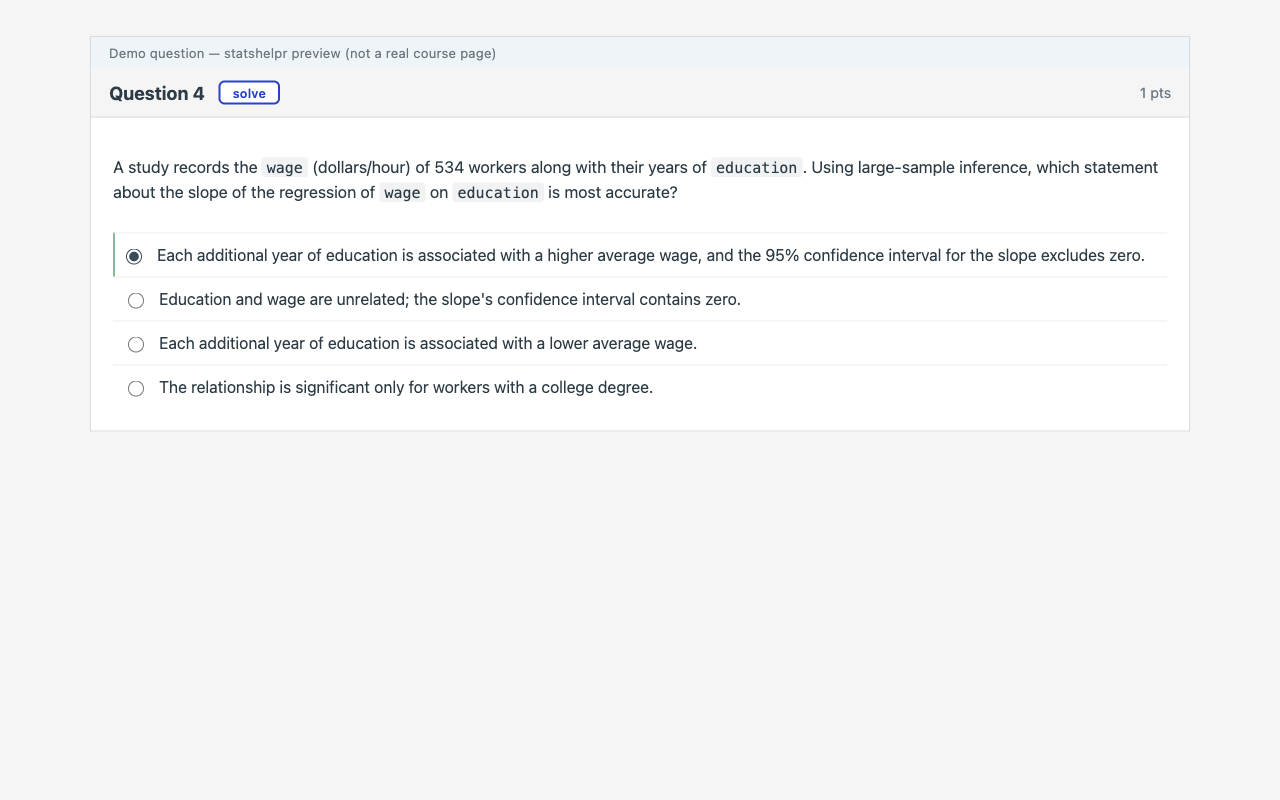
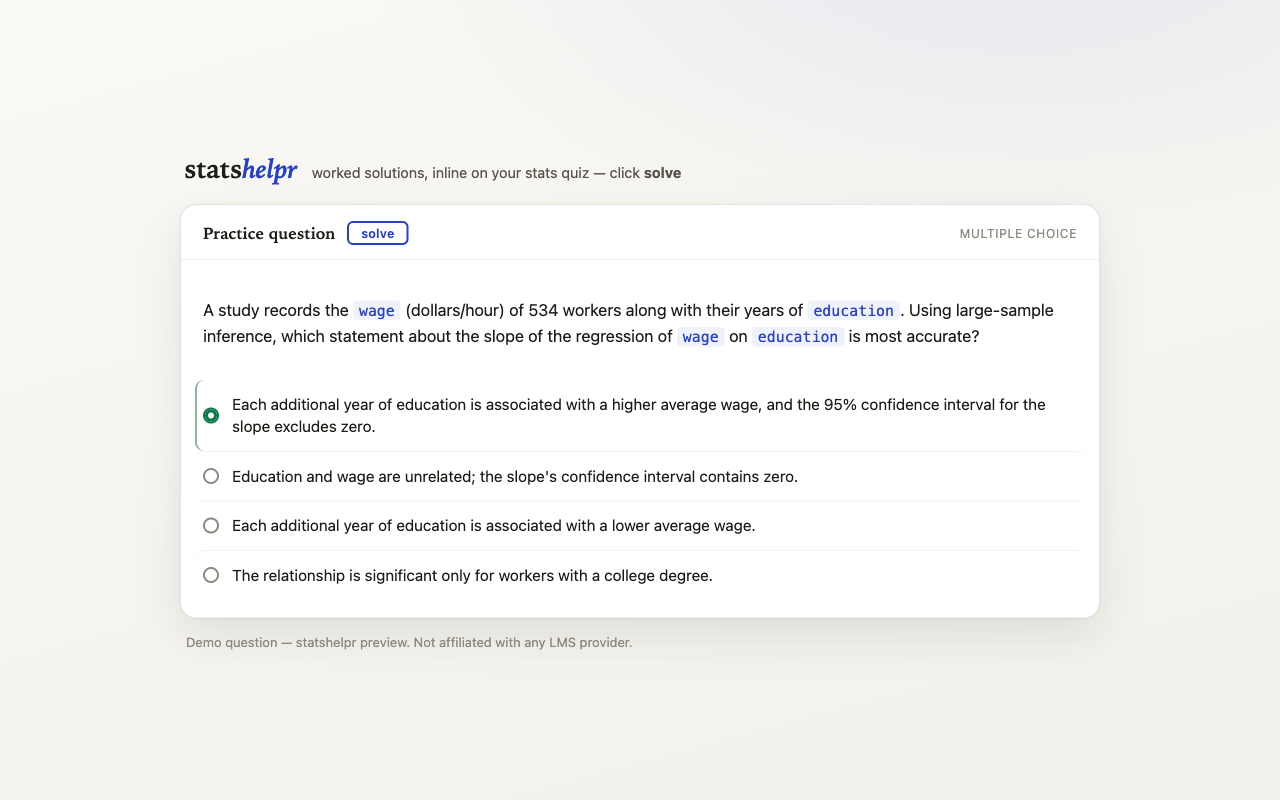
cws: remove Canvas trademark from name/summary + neutralize screenshot
Trademark-risk mitigation for the CWS submission (the most common
rejection reason for LMS-adjacent extensions):
- listing.md: rename to "statshelpr — stats quiz tutor"; drop "Canvas" from
  the name and the short summary entirely (both are prominent metadata that
  reviewers flag). "Canvas" now appears ONLY in the description body as
  descriptive/nominative use ("works on Canvas quiz pages"), plus an explicit
  non-affiliation disclaimer naming Instructure's trademark.
- screenshots/01-inline-solve.png: re-render the demo on a neutral,
  statshelpr-branded shell (serif wordmark, blue/paper palette) instead of
  Canvas trade dress (grey header, "Question N / X pts", Canvas answer rows),
  with a "not affiliated with any LMS provider" footer. The real extension
  elements — the solve badge and suggested-answer accent from the shipped
  panel.css — are unchanged, so it still faithfully shows the product.

diff --git a/docs/cws/listing.md b/docs/cws/listing.md
@@ -1,13 +1,18 @@
 # Chrome Web Store listing — statshelpr
 
 ## Name
-**statshelpr — stats tutor for Canvas**
-(alt, if a shorter name is preferred: `statshelpr`)
+**statshelpr — stats quiz tutor**
+(alt, shortest form: `statshelpr`)
+
+NOTE: "Canvas" is deliberately NOT in the name or summary — it's a registered
+trademark of Instructure, and putting it in listing metadata is the most common
+trademark/impersonation rejection. It appears ONLY in the description body as
+descriptive ("works on Canvas quiz pages"), which is accepted nominative use.
 
 ## Summary (max 132 chars)
-> Worked solutions for intro-stats questions on Canvas quizzes — step-by-step answers with the real R code behind every result.
+> Worked solutions for intro-stats quiz questions — step-by-step answers with the real R code behind every result.
 
-(121 chars — room to tweak.)
+(111 chars — room to tweak.)
 
 ## Category / language
 Education · English
@@ -30,8 +35,10 @@ Privacy: question content is sent to our servers only when you click solve, and 
 
 statshelpr is a study aid. Use it in accordance with your institution's academic integrity policies.
 
+Not affiliated with, endorsed by, or sponsored by Instructure or Canvas. "Canvas" is a trademark of Instructure, Inc., used here only to describe compatibility.
+
 ## Notes (not part of the listing)
-- The last line (integrity note) is standard for this category and materially helps review approval; recommend keeping it.
-- Functionality statement ("solve button on Canvas quiz pages") is required by CWS metadata policy — the listing must state what the extension does where it does it.
+- The integrity note and the non-affiliation line are both standard for this category and materially help review approval; keep both. The non-affiliation disclaimer is the direct mitigation for the trademark risk — it makes the descriptive use of "Canvas" in the body unambiguous.
+- Functionality statement ("solve button on quiz pages, compatible with Canvas") is required by CWS metadata policy — the listing must state what the extension does. Stated in the description body, not the name/summary.
 - Store assets needed at upload time: at least 1 screenshot 1280×800 (see `docs/cws/screenshots/`), optional promo tile 440×280.
 - Support email + website fields: use the statshelpr.com contact address.
